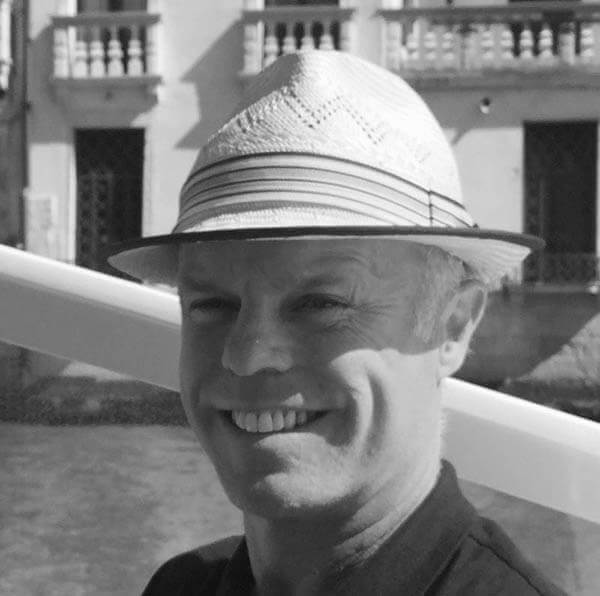
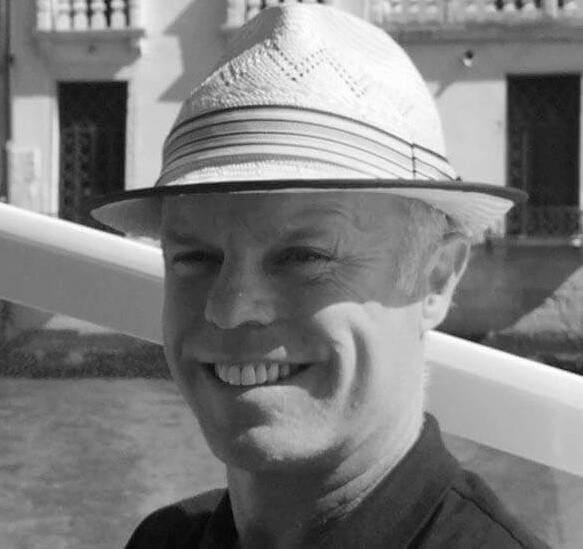
a new person was added in section advisory board

diff --git a/src/landing/pages/AboutSensie.js b/src/landing/pages/AboutSensie.js
@@ -14,7 +14,8 @@ import HinnerkBoriss from '../assets/img/HinnerkBoriss.png'
 import KeithTribble from '../assets/img/KeithTribble.png'
 import SatyenRaja from '../assets/img/SatyenRaja.png'
 import AnneJensen from '../assets/img/AnneJensen.png'
-import AnnmarieChereso from '../assets/img/AnnmarieChereso.png'
+import AnnmarieChereso from '../assets/img/AnnmarieChereso.jpg'
+import SylviaBenito from '../assets/img/SylviaBenito.png'
 import JeremyTabke from '../assets/img/JeremyTabke.png'
 import GescheHaas from '../assets/img/GescheHaas.png'
 import EvaSelhub from '../assets/img/EvaSelhub.png'
@@ -190,7 +191,7 @@ const AboutSensie = () => {
             xs={10}
             sm={12}
             container
-            justify="space-evenly"
+            justify="center"
             alignItems="center"
           >
             <Grid item xs={12}>
@@ -262,6 +263,14 @@ const AboutSensie = () => {
                 urlLinkedin="https://www.linkedin.com/in/luisgallardo/"
               />
             </Box>
+            <Box mt={8} textAlign="center" data-aos="zoom-out-up">
+              <Member
+                avatar={SylviaBenito}
+                name="Sylvia Benito"
+                role="-"
+                urlLinkedin="https://www.linkedin.com/in/sylvia-benito-cfa-3191975/"
+              />
+            </Box>
           </Grid>
           <Grid item xs={1}></Grid>
           <Grid item xs={1}></Grid>
@@ -270,7 +279,7 @@ const AboutSensie = () => {
             xs={10}
             sm={12}
             container
-            justify="space-evenly"
+            justify="center"
             alignItems="center"
           >
             <Grid item xs={12}>
